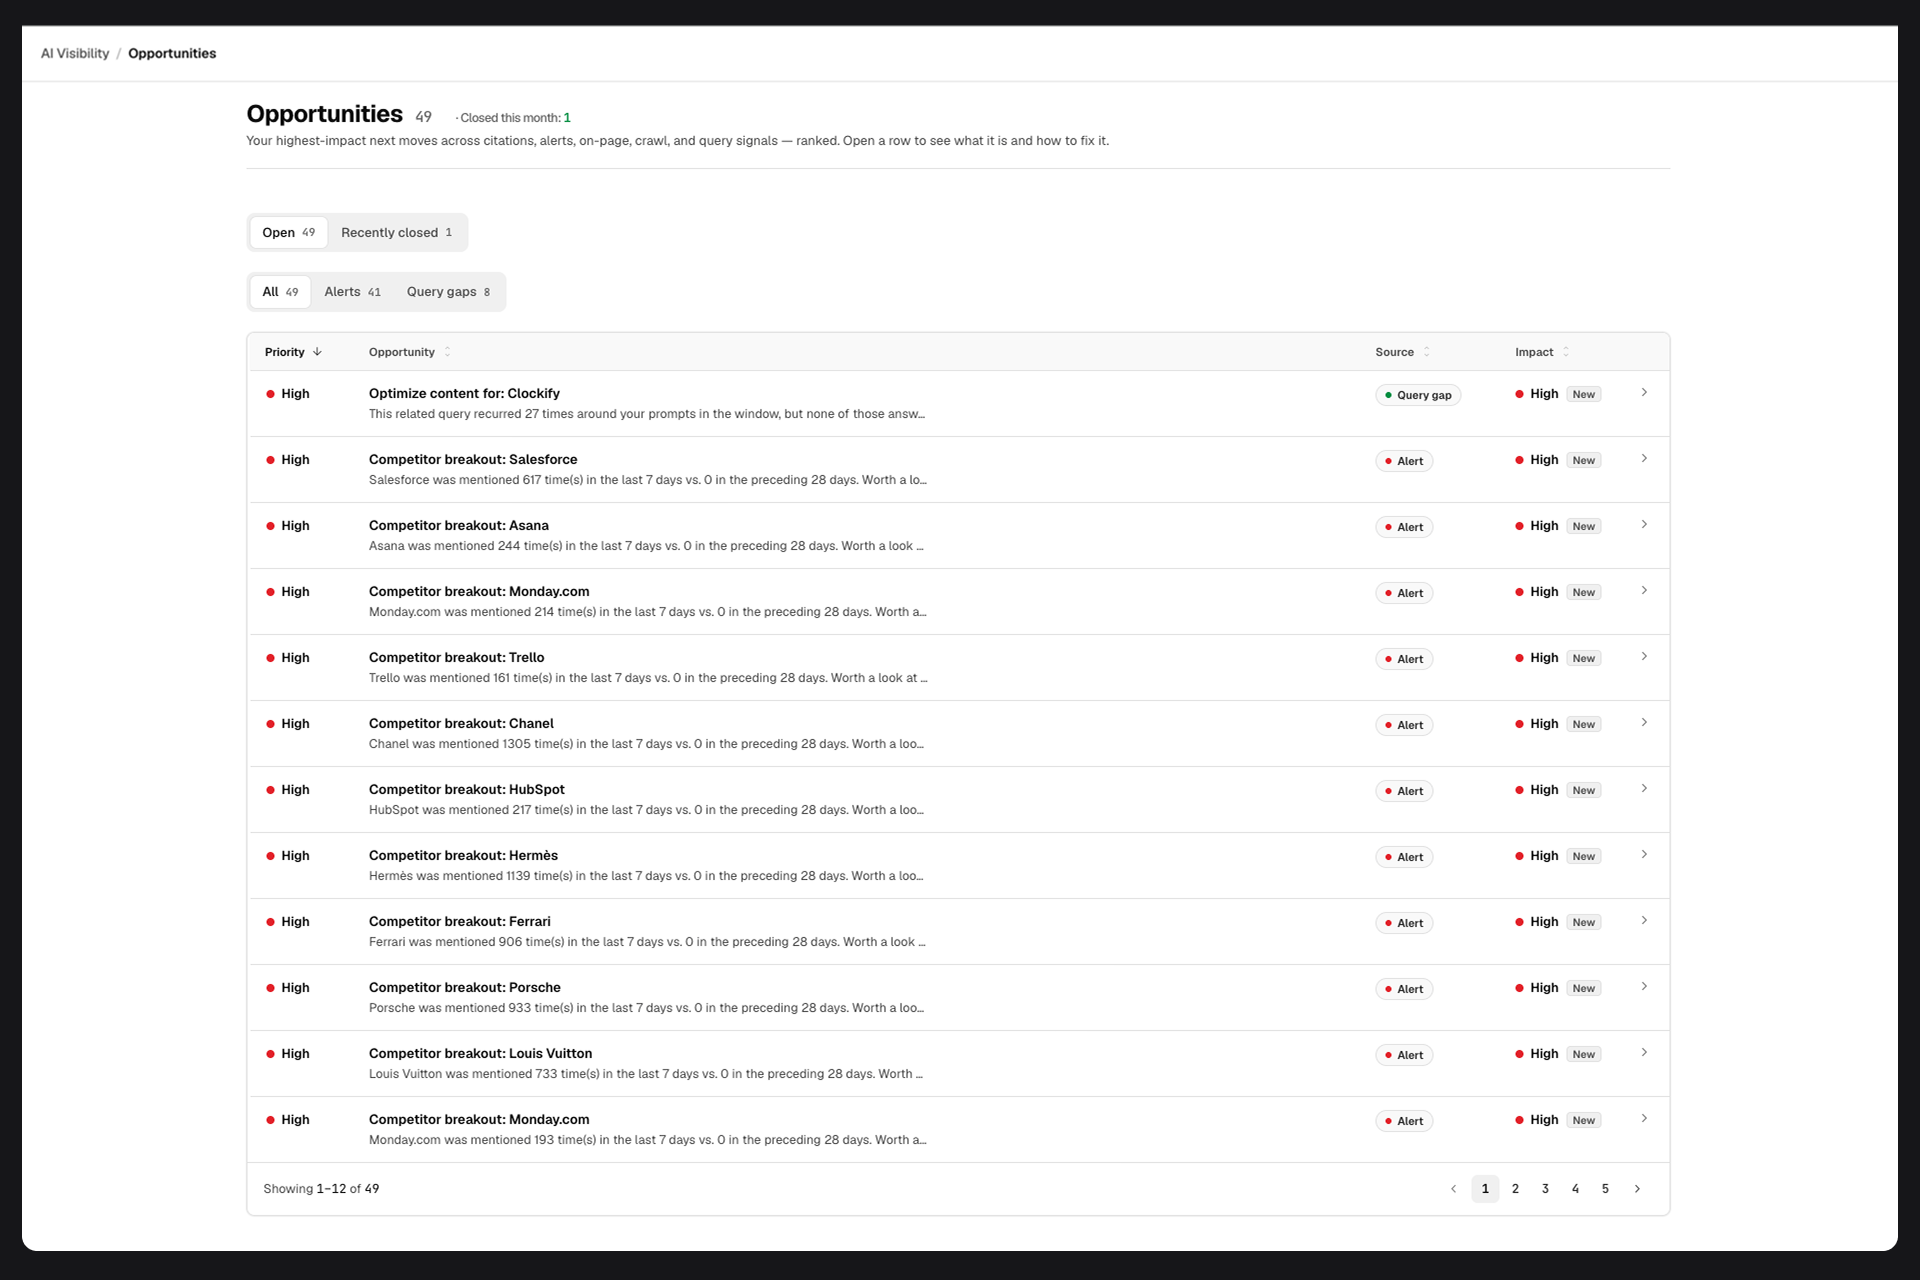
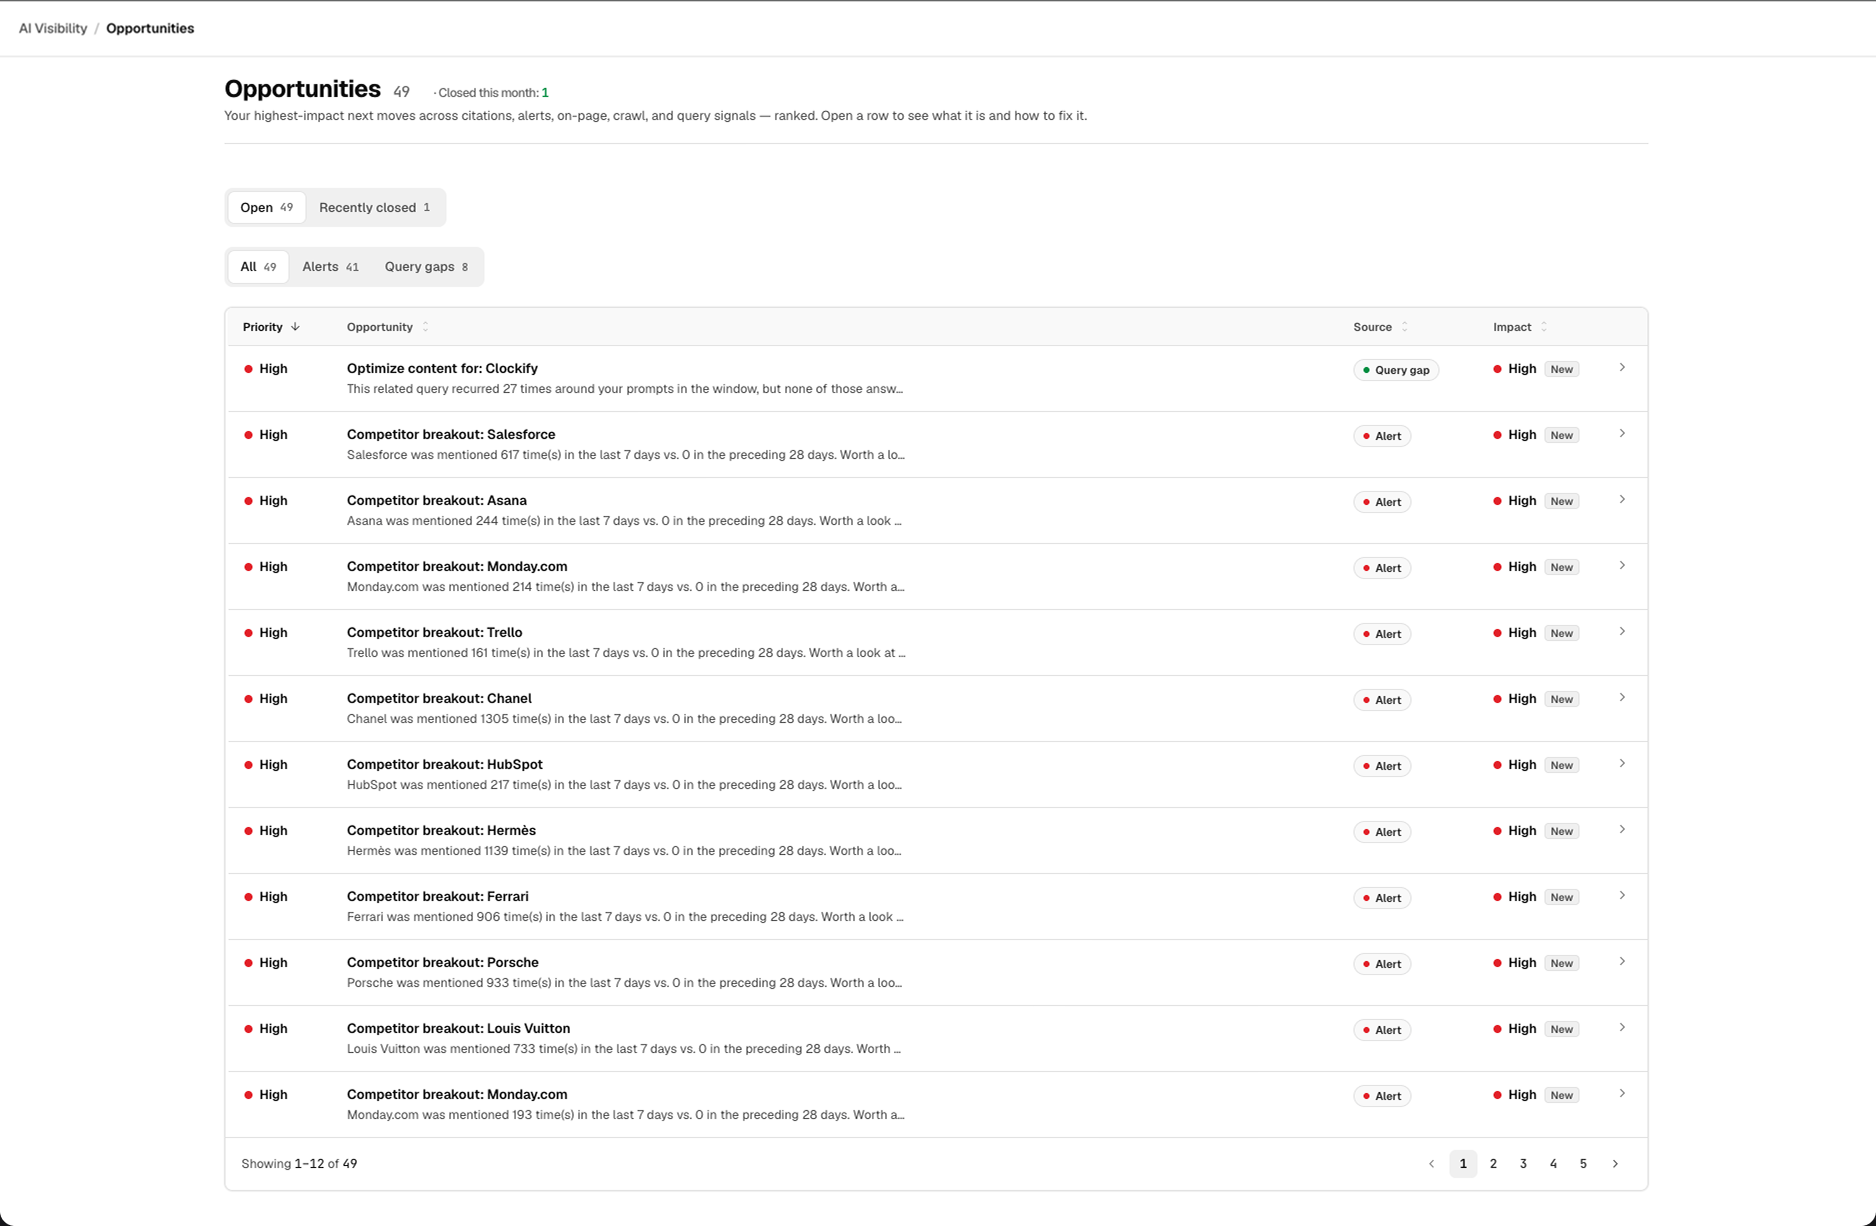
Recommendations pillar: trim Figma frame, fill panel edge-to-edge
The 1920×1280 source had a ~22px dark Figma frame baked in, which
showed as visible dark borders around the dashboard inside the dark
mock-panel card. Auto-trim via magick (-fuzz 8% -trim) removes the
border cleanly, leaving the pure dashboard at 1876×1226.

Also sets the MockRecommendations wrapper to background:#ffffff so
when the dashboard's 1.53 aspect sits in the wider ~1.75 panel slot,
the horizontal letterbox blends seamlessly with the dashboard's own
white background — the whole frame reads as one continuous white
surface. mockAspect updated to match the trimmed dimensions.

diff --git a/site/components/home/PillarStepper.tsx b/site/components/home/PillarStepper.tsx
@@ -377,14 +377,19 @@ function MockRankings() {
 }
 
 // ── Mock 04 · Recommendations — static image of the Opportunities dashboard ─
+//
+// White background on the wrapper so when the dashboard image (1876×1226,
+// aspect ~1.53) sits inside a slightly wider mock-panel slot, the
+// horizontal letterbox blends seamlessly with the dashboard's own white
+// background — visually the whole frame reads as one continuous surface.
 function MockRecommendations() {
   return (
-    <div style={{ width: '100%', height: '100%', display: 'flex', alignItems: 'center', justifyContent: 'center', overflow: 'hidden' }}>
+    <div style={{ width: '100%', height: '100%', display: 'flex', alignItems: 'center', justifyContent: 'center', overflow: 'hidden', background: '#ffffff' }}>
       <Image
         src="/home/opportunities.png"
         alt="AEO/GEO Recommendations — prioritized opportunities across citations, alerts, on-page, crawl, and query signals"
-        width={1920}
-        height={1280}
+        width={1876}
+        height={1226}
         priority={false}
         loading="lazy"
         quality={95}
@@ -463,7 +468,7 @@ const PILLARS: Pillar[] = [
     fg: '#047857',
     glyph: G.bulb,
     Mock: MockRecommendations,
-    mockAspect: '1920 / 1280'
+    mockAspect: '1876 / 1226'
   }
 ]
 